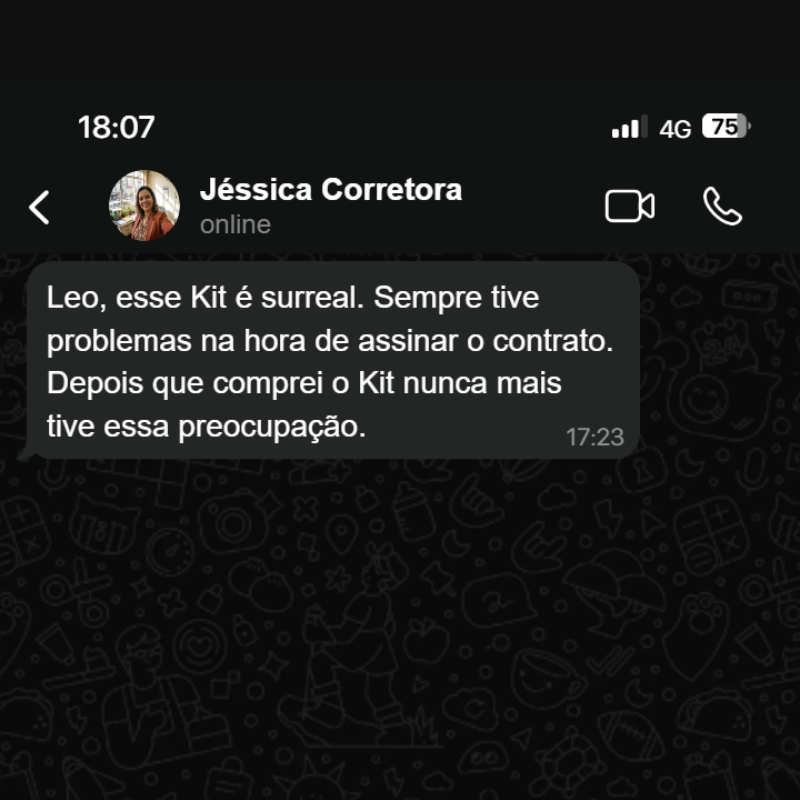
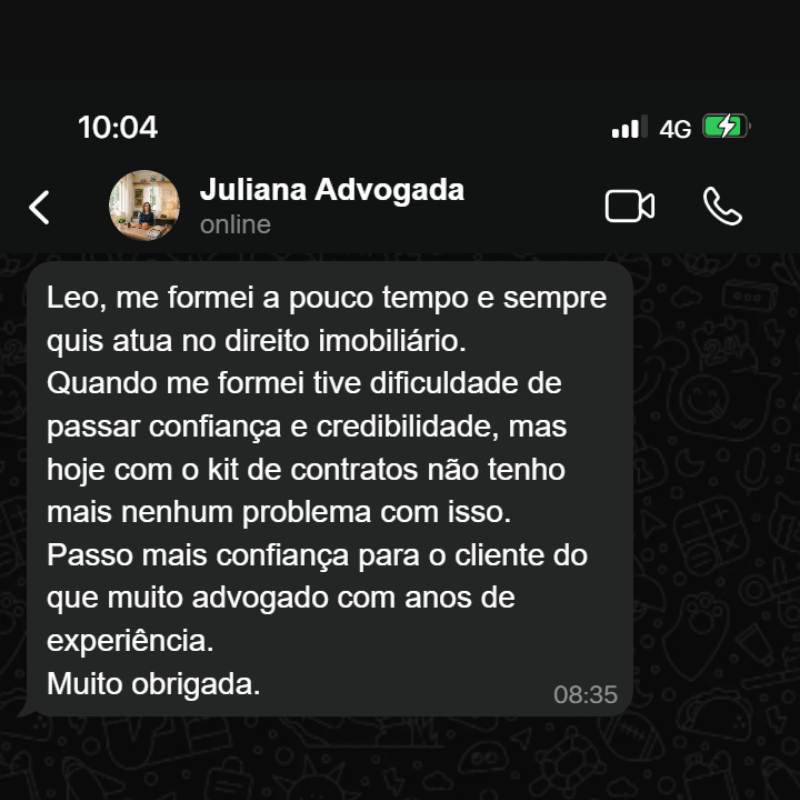
finalizado

diff --git a/index.html b/index.html
@@ -368,11 +368,12 @@
 
         <p class="section-text" data-animate="fade-up" data-delay="300">
           <strong class="text-white">Leonardo Izoton</strong> é corretor de imóveis, 
-          aprovado no exame da OAB, com mais de 
+          advogado, com mais de 
           <span class="highlight">25 anos de atuação</span> no mercado imobiliário.
         </p>
 
         <p class="section-text" data-animate="fade-up" data-delay="350">
+          Escrito e encorporador imobiliário.
           Criou este kit para ajudar profissionais que perdiam segurança
           no fechamento por contratos mal estruturados.
         </p>
@@ -394,10 +395,67 @@
     </div>
   </section>
 
+  <!-- DEPOIMENTOS - CARROSSEL -->
+  <section id="depoimentos" class="section section-depoimentos">
+    <div class="section-content-wrapper" style="width: 100%;">
+      <div class="glass-card" data-animate="fade-up">
+        <h2 class="section-title">
+          O que nossos <span class="text-gradient">clientes</span> dizem
+        </h2>
+
+        <div class="depoimentos-carousel" id="depoimentosCarousel">
+          <div class="depoimentos-track" id="depoimentosTrack">
+            <div class="depoimento-slide">
+              <img src="img/depoimentos.png" alt="Depoimento de cliente" loading="lazy">
+            </div>
+            <div class="depoimento-slide">
+              <img src="img/depoimentos 01.png" alt="Depoimento de cliente" loading="lazy">
+            </div>
+            <div class="depoimento-slide">
+              <img src="img/depoimentos 02.png" alt="Depoimento de cliente" loading="lazy">
+            </div>
+            <div class="depoimento-slide">
+              <img src="img/depoimentos 03.png" alt="Depoimento de cliente" loading="lazy">
+            </div>
+            <div class="depoimento-slide">
+              <img src="img/depoimentos 04.png" alt="Depoimento de cliente" loading="lazy">
+            </div>
+            <div class="depoimento-slide">
+              <img src="img/depoimentos 05.png" alt="Depoimento de cliente" loading="lazy">
+            </div>
+          </div>
+        </div>
+
+        <div class="carousel-dots" id="carouselDots">
+          <span class="dot active" data-index="0"></span>
+          <span class="dot" data-index="1"></span>
+          <span class="dot" data-index="2"></span>
+          <span class="dot" data-index="3"></span>
+          <span class="dot" data-index="4"></span>
+          <span class="dot" data-index="5"></span>
+        </div>
+
+        <a href="https://hotmart.com/pt-br/marketplace/produtos/contratos-imobiliarios-editaveis-comissao-blindada-suporte-documental-completo-com-tutorial-em-video/D82477239Y" 
+           class="btn btn-primary" 
+           target="_blank" 
+           rel="noopener noreferrer"
+           data-animate="fade-up" data-delay="300">
+          <span class="btn-shimmer"></span>
+          <span class="btn-text">
+            Quero resultados assim
+            <svg class="btn-arrow" viewBox="0 0 24 24" fill="none" stroke="currentColor" stroke-width="2">
+              <path stroke-linecap="round" stroke-linejoin="round" d="M5 12h14M12 5l7 7-7 7"/>
+            </svg>
+          </span>
+        </a>
+      </div>
+    </div>
+  </section>
+
   <!-- OFERTA -->
   <section id="oferta" class="section">
     <div class="section-image-wrapper">
-      <img src="img/depoimentos.png" alt="Depoimentos de compradores do kit" class="section-image" data-animate="scale-in" loading="lazy">
+      <img src="img/advogado.png" alt="Depoimentos de compradores do kit" class="section-image" data-animate="scale-in" loading="lazy">
     </div>
 
     <div class="section-content-wrapper">
@@ -435,13 +493,7 @@
               <path stroke-linecap="round" stroke-linejoin="round" d="M5 13l4 4L19 7"/>
             </svg>
           </div>
-          <div class="include-item" data-animate="fade-right" data-delay="300">
-            <span class="include-icon">🛡</span>
-            <span class="include-text">Suporte por 30 dias</span>
-            <svg class="include-check" viewBox="0 0 24 24" fill="none" stroke="currentColor" stroke-width="2">
-              <path stroke-linecap="round" stroke-linejoin="round" d="M5 13l4 4L19 7"/>
-            </svg>
-          </div>
+          
         </div>
 
         <div class="guarantee-card" data-animate="fade-up" data-delay="350">
@@ -460,13 +512,13 @@
           <div class="price-shimmer"></div>
           
           <div class="discount-badge">
-            🔥 OFERTA ESPECIAL - 37% OFF
+            🔥 OFERTA ESPECIAL - 52% OFF
           </div>
 
           <div class="price-content">
             <div class="old-price">
               <span class="old-price-label">De</span>
-              <span class="old-price-value">R$ 297,00</span>
+              <span class="old-price-value">R$ 387,00</span>
             </div>
 
             <div class="current-price">
@@ -479,14 +531,14 @@
             </div>
 
             <p class="installment">
-              ou em até <strong>12x de R$ 19,35</strong> no cartão
+              ou em até <strong>12x de R$ 19,34</strong> no cartão
             </p>
 
             <div class="savings">
               <svg viewBox="0 0 24 24" fill="none" stroke="currentColor" stroke-width="2">
                 <path stroke-linecap="round" stroke-linejoin="round" d="M12 8c-1.657 0-3 .895-3 2s1.343 2 3 2 3 .895 3 2-1.343 2-3 2m0-8c1.11 0 2.08.402 2.599 1M12 8V7m0 1v8m0 0v1m0-1c-1.11 0-2.08-.402-2.599-1M21 12a9 9 0 11-18 0 9 9 0 0118 0z"/>
               </svg>
-              <span>Economia de R$ 110,00</span>
+              <span>Economia de R$ 200,00</span>
             </div>
           </div>
         </div>

diff --git a/script.js b/script.js
@@ -63,7 +63,7 @@ document.addEventListener('DOMContentLoaded', function() {
   const ctaButtons = document.querySelectorAll('.btn');
   
   ctaButtons.forEach(button => {
-    button.addEventListener('click', function() {
+    button.addEventListener('click', function(e) {
       // Add ripple effect
       const ripple = document.createElement('span');
       ripple.style.cssText = `
@@ -78,8 +78,8 @@ document.addEventListener('DOMContentLoaded', function() {
       const rect = this.getBoundingClientRect();
       const size = Math.max(rect.width, rect.height);
       ripple.style.width = ripple.style.height = size + 'px';
-      ripple.style.left = (event.clientX - rect.left - size / 2) + 'px';
-      ripple.style.top = (event.clientY - rect.top - size / 2) + 'px';
+      ripple.style.left = (e.clientX - rect.left - size / 2) + 'px';
+      ripple.style.top = (e.clientY - rect.top - size / 2) + 'px';
       
       this.appendChild(ripple);
       
@@ -164,36 +164,72 @@ document.addEventListener('DOMContentLoaded', function() {
   });
   
   // =========================
-  // COUNTDOWN TIMER (optional)
+  // DEPOIMENTOS CARROSSEL
   // =========================
-  function startCountdown(endDate, elementId) {
-    const element = document.getElementById(elementId);
-    if (!element) return;
+  const carousel = document.getElementById('depoimentosCarousel');
+  const track = document.getElementById('depoimentosTrack');
+  const dots = document.querySelectorAll('.dot');
+  
+  if (carousel && track) {
+    let currentIndex = 0;
+    const totalSlides = 6;
+    let intervalId;
+    let isPaused = false;
     
-    function updateCountdown() {
-      const now = new Date().getTime();
-      const distance = endDate - now;
+    // Função para ir para um slide específico
+    function goToSlide(index) {
+      currentIndex = index;
+      const translateX = -(currentIndex * (100 / totalSlides));
+      track.style.transform = `translateX(${translateX}%)`;
       
-      if (distance < 0) {
-        element.innerHTML = 'Oferta encerrada';
-        return;
-      }
-      
-      const days = Math.floor(distance / (1000 * 60 * 60 * 24));
-      const hours = Math.floor((distance % (1000 * 60 * 60 * 24)) / (1000 * 60 * 60));
-      const minutes = Math.floor((distance % (1000 * 60 * 60)) / (1000 * 60));
-      const seconds = Math.floor((distance % (1000 * 60)) / 1000);
-      
-      element.innerHTML = `${days}d ${hours}h ${minutes}m ${seconds}s`;
+      // Atualiza os dots
+      dots.forEach((dot, i) => {
+        dot.classList.toggle('active', i === currentIndex);
+      });
     }
     
-    updateCountdown();
-    setInterval(updateCountdown, 1000);
+    // Função para próximo slide
+    function nextSlide() {
+      const nextIndex = (currentIndex + 1) % totalSlides;
+      goToSlide(nextIndex);
+    }
+    
+    // Inicia o carrossel automático
+    function startAutoplay() {
+      intervalId = setInterval(nextSlide, 4000); // Muda a cada 4 segundos
+    }
+    
+    // Para o carrossel
+    function stopAutoplay() {
+      clearInterval(intervalId);
+    }
+    
+    // Event listeners para pausar no hover
+    carousel.addEventListener('mouseenter', () => {
+      isPaused = true;
+      stopAutoplay();
+    });
+    
+    carousel.addEventListener('mouseleave', () => {
+      isPaused = false;
+      startAutoplay();
+    });
+    
+    // Event listeners para os dots
+    dots.forEach((dot, index) => {
+      dot.addEventListener('click', () => {
+        goToSlide(index);
+        // Reseta o intervalo quando clicado manualmente
+        if (!isPaused) {
+          stopAutoplay();
+          startAutoplay();
+        }
+      });
+    });
+    
+    // Inicia automaticamente
+    startAutoplay();
   }
-  
-  // Example: Start countdown for 7 days from now
-  // const endDate = new Date().getTime() + (7 * 24 * 60 * 60 * 1000);
-  // startCountdown(endDate, 'countdown');
   
   // =========================
   // ANALYTICS TRACKING
@@ -274,4 +310,3 @@ style.textContent = `
   }
 `;
 document.head.appendChild(style);
-

diff --git a/style.css b/style.css
@@ -146,6 +146,17 @@ body {
   }
 }
 
+@keyframes fadeInSlide {
+  from {
+    opacity: 0;
+    transform: translateX(30px);
+  }
+  to {
+    opacity: 1;
+    transform: translateX(0);
+  }
+}
+
 /* =========================
    UTILITY CLASSES
    ========================= */
@@ -767,6 +778,83 @@ body {
 }
 
 /* =========================
+   DEPOIMENTOS CARROSSEL
+   ========================= */
+.section-depoimentos {
+  min-height: auto;
+  padding: 60px 0;
+}
+
+.section-depoimentos .section-content-wrapper {
+  margin-top: 0;
+  padding: 0 20px;
+}
+
+.section-depoimentos .glass-card {
+  padding: 40px 24px;
+}
+
+.depoimentos-carousel {
+  width: 100%;
+  max-width: 500px;
+  margin: 0 auto 24px;
+  overflow: hidden;
+  border-radius: 16px;
+  background: rgba(0, 0, 0, 0.3);
+  border: 1px solid rgba(255, 255, 255, 0.1);
+}
+
+.depoimentos-track {
+  display: flex;
+  transition: transform 0.5s ease-in-out;
+  width: 600%;
+}
+
+.depoimento-slide {
+  width: 16.666%;
+  flex-shrink: 0;
+  display: flex;
+  align-items: center;
+  justify-content: center;
+  padding: 20px;
+}
+
+.depoimento-slide img {
+  width: 100%;
+  height: auto;
+  max-width: 100%;
+  border-radius: 12px;
+  display: block;
+  box-shadow: 0 4px 20px rgba(0, 0, 0, 0.3);
+}
+
+.carousel-dots {
+  display: flex;
+  justify-content: center;
+  gap: 10px;
+  margin-bottom: 32px;
+}
+
+.dot {
+  width: 10px;
+  height: 10px;
+  border-radius: 50%;
+  background: rgba(255, 255, 255, 0.3);
+  cursor: pointer;
+  transition: all 0.3s ease;
+  border: none;
+}
+
+.dot.active {
+  background: #3b82f6;
+  transform: scale(1.2);
+}
+
+.dot:hover {
+  background: #60a5fa;
+}
+
+/* =========================
    INCLUDES LIST
    ========================= */
 .includes-list {
@@ -1168,6 +1256,11 @@ body {
     font-size: 14px;
     line-height: 1.5;
   }
+
+  /* Depoimentos tablet */
+  .depoimentos-carousel {
+    max-width: 450px;
+  }
 }
 
 /* =========================
@@ -1337,6 +1430,21 @@ body {
     margin-top: 8px;
   }
 
+  /* Depoimentos desktop */
+  .section-depoimentos {
+    padding: 80px 5%;
+  }
+
+  .section-depoimentos .section-content-wrapper {
+    width: 100%;
+    max-width: 800px;
+    margin: 0 auto;
+  }
+
+  .depoimentos-carousel {
+    max-width: 500px;
+  }
+
   /* Animações específicas desktop */
   [data-animate="fade-left"] {
     transform: translateX(-50px);
@@ -1375,5 +1483,9 @@ body {
   
   .two-columns {
     gap: 48px;
+  }
+
+  .depoimentos-carousel {
+    max-width: 550px;
   }
 }
